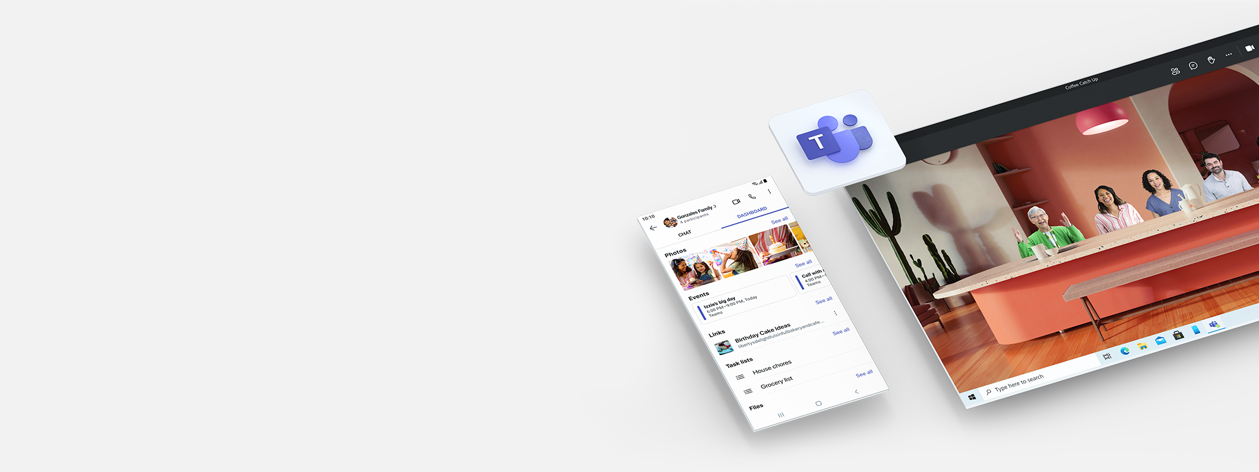
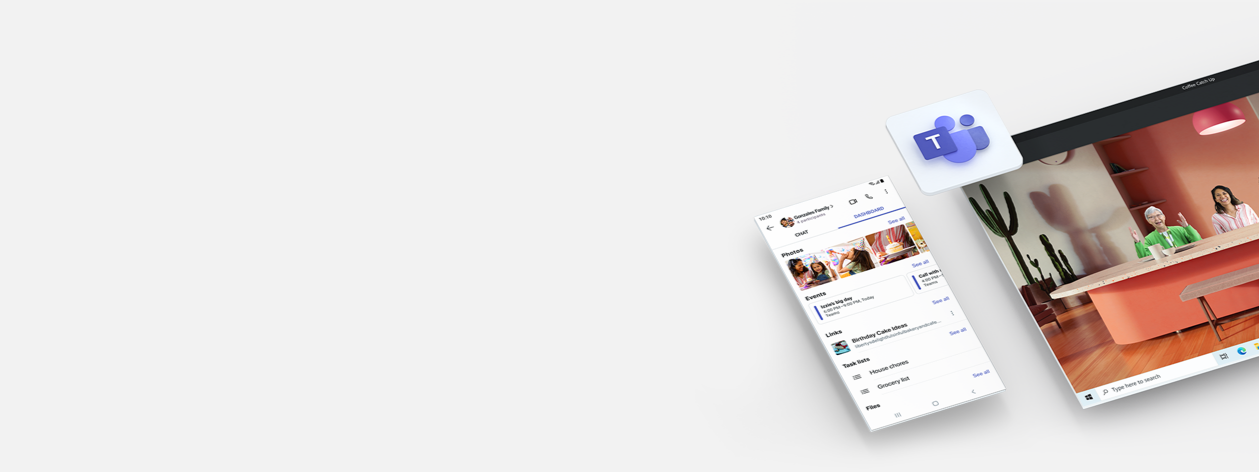
mobile layout new optimisations

Changed region(s): [[0.4956, 0.0297, 1.0, 0.9492], [0.5266, 0.4449, 0.5576, 0.5042], [0.5576, 0.4153, 0.5886, 0.4449]]

diff --git a/src/style.css b/src/style.css
@@ -332,37 +332,18 @@ li {
 /* * SHOWCASE 2 AREA */
 
 .showcase2 {
-  display: flex;
-
-  justify-content: center;
-  align-items: center;
-
   width: 100%;
   height: 40rem;
   background: url(/images/slider2.png) no-repeat center center/cover;
-
-  margin-top: 6rem;
 }
 
-.showcase2-text-area {
-  display: grid;
-  gap: 1.5rem;
-
-  padding: 0 2rem;
+.showcase2 p {
+  min-width: 25rem;
+  padding-right: 5rem;
 }
 
-.showcase2-text-area h2 {
-  color: #262626;
-  font-size: 3rem;
-}
-
-.showcase2-text-area p {
-  color: #262626;
-  font-weight: bold;
-}
-
-.showcase2-text-area a {
-  width: 14rem;
+.showcase2 h2 {
+  padding-right: 0.6rem;
 }
 
 /* * SHOWCASE 2 AREA ENDS */
@@ -865,11 +846,12 @@ footer {
 
   .showcase2 {
     width: 100%;
-    height: 60vh;
-    background: url(/images/slider2.png) no-repeat center center;
-    background-position: left 16% bottom 5%;
+    height: 80vh;
+    background: url(/images/NEW-HERO2.png) no-repeat;
+    background-position: right 50% top 90%;
+    background-size: cover;
 
-    margin-top: 6rem;
+    margin-bottom: 6rem;
   }
 
   /* ? TAB ABOUT ME SECTION */

diff --git a/index.html b/index.html
@@ -279,7 +279,7 @@
 
         <div class="container-2-media-queries">
           <section class="showcase2">
-            <div class="showcase2-text-area">
+            <div class="showcase-text-area">
               <h2>Life’s better together</h2>
               <p>
                 Now use Microsoft Teams to chat, call and make plans with family and friends</p>
